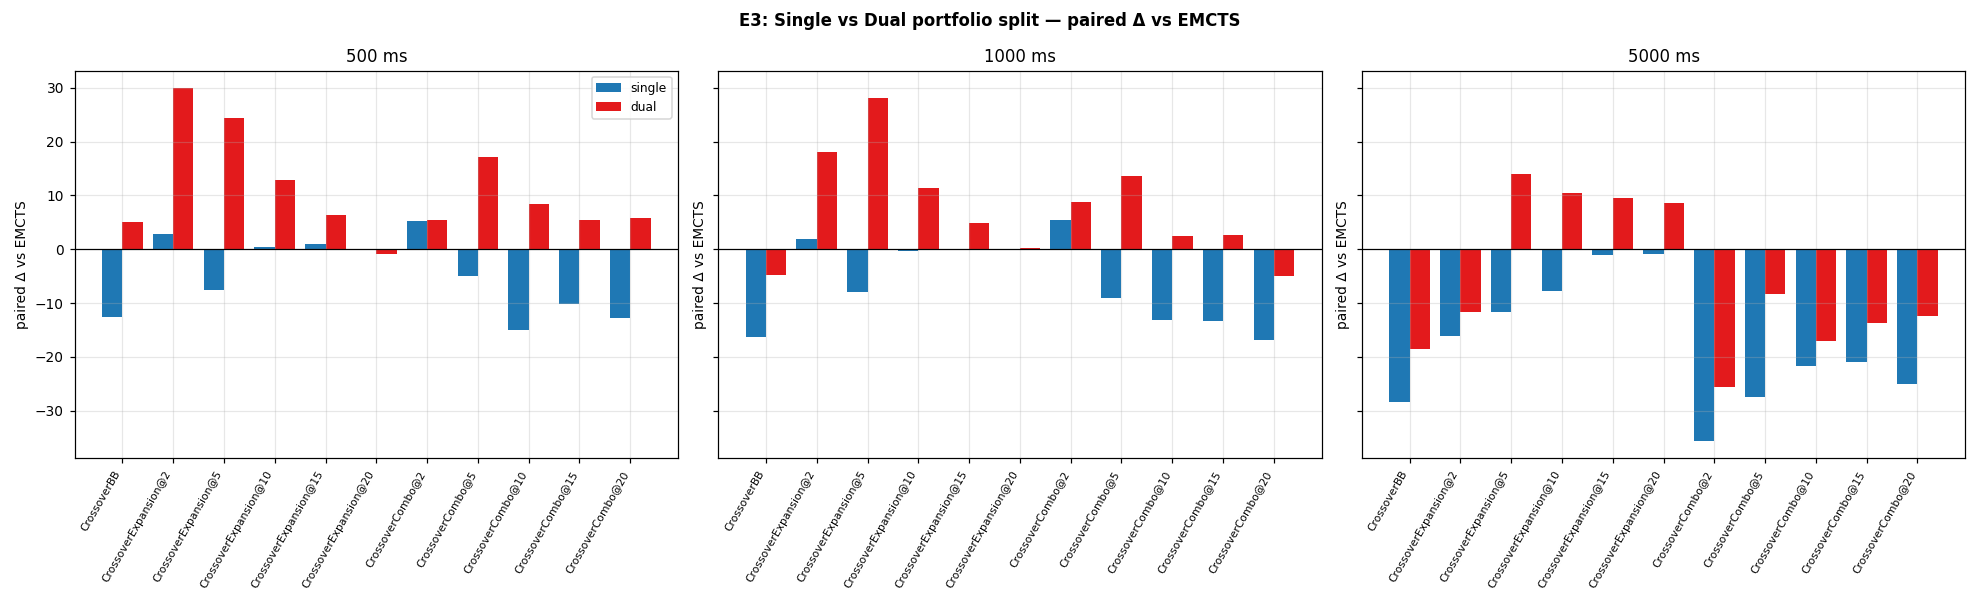
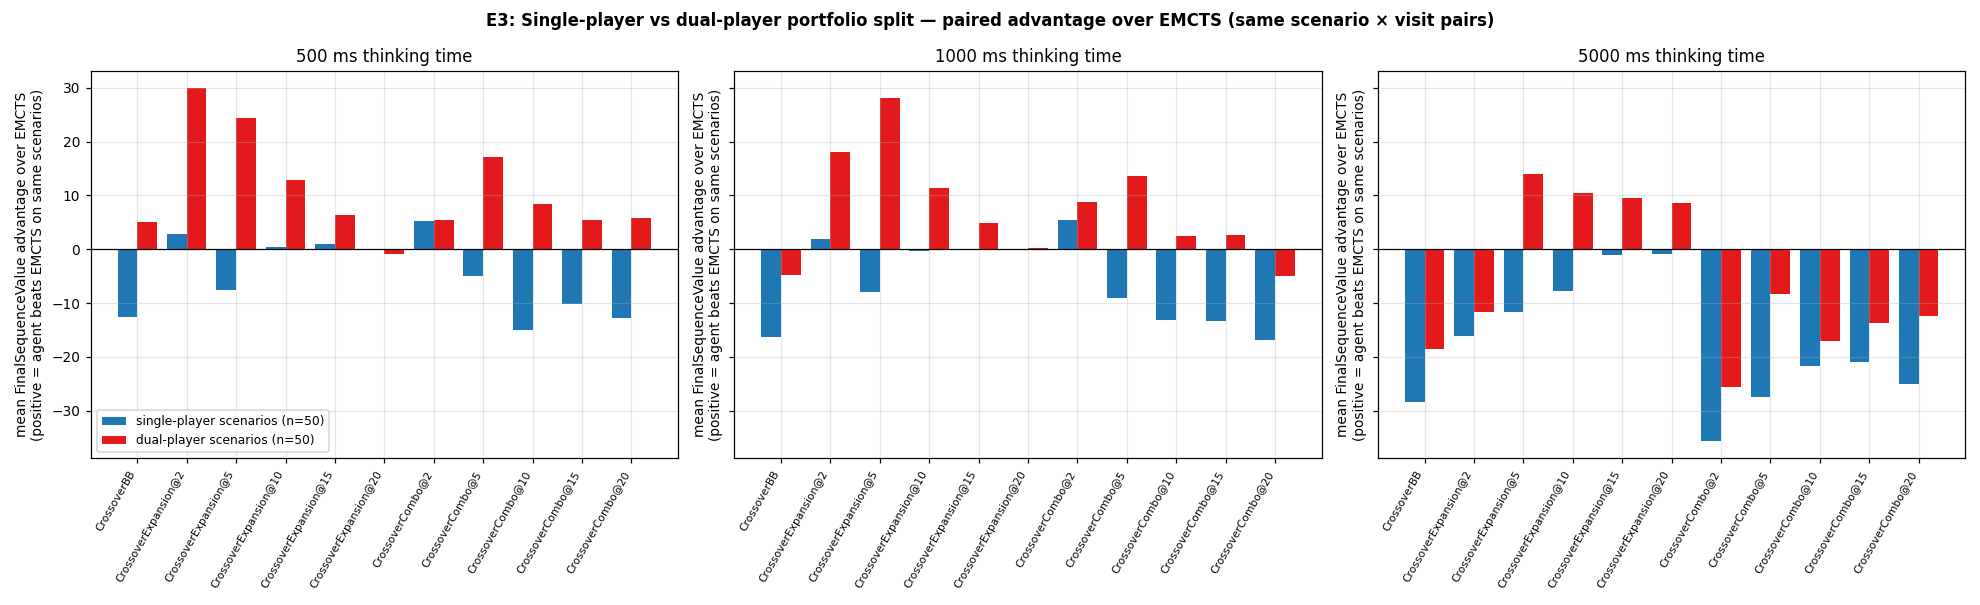
v4 analysis: fix E1 label/bar mismatch, clarify E3 label, add E5 cost decomp
- E1 (paired Δ with CI): drop sharey=True so per-panel sort order matches
  per-panel y-tick labels (was: avg-panel labels leaked into all four
  panels via shared axis).
- E3 (single vs dual): replace "paired Δ vs EMCTS" with a self-explanatory
  axis label, expand legend, and bold the title.
- E5 (new): per-iteration cost decomposition. Audits the
  NodesEvaluated/Turn chart from analyze_v4.py — the inter-agent
  inconsistency is real but is NOT extra search work, it is cheaper
  iterations (BB tournament evals are shallow; crossover sequences need
  less repair than mutate). RESULTS_V4.md gets a new section explaining
  this so the reader does not misread the efficiency chart.

diff --git a/Tribes-master/analysis/analyze_v4_full.py b/Tribes-master/analysis/analyze_v4_full.py
@@ -386,7 +386,10 @@ def extra_paired_delta_with_ci(turn_df):
                 .drop_duplicates(['ThinkingMs','ScenarioId','VisitId'])
     j = turn_df.merge(emcts, on=['ThinkingMs','ScenarioId','VisitId'], how='left', validate='m:1')
     j['delta'] = j.FinalSequenceValue - j.emcts_final
-    fig, axes2 = plt.subplots(2, 2, figsize=(13, 9), squeeze=False, sharey=True)
+    # Independent y-axes: each panel sorts bars by its own mean, so each panel needs its own labels
+    # in the matching order. With sharey=True matplotlib lets the last-set y-tick labels win for ALL
+    # panels, which was the cause of the label/bar mismatch in the previous version.
+    fig, axes2 = plt.subplots(2, 2, figsize=(13, 9), squeeze=False, sharey=False)
     axes = axes2.flatten()
     # per ms + avg
     keys = [*MS_LEVELS, 'avg']
@@ -484,15 +487,60 @@ def extra_single_vs_dual(turn_df, portfolio):
         x = np.arange(len(configs_present))
         s = sub[sub.Source=='single'].set_index('Config').reindex(configs_present)['deltaVsEMCTS']
         d = sub[sub.Source=='dual'  ].set_index('Config').reindex(configs_present)['deltaVsEMCTS']
-        ax.bar(x - 0.2, s.values, 0.4, color='#1f78b4', label='single')
-        ax.bar(x + 0.2, d.values, 0.4, color='#e31a1c', label='dual')
+        ax.bar(x - 0.2, s.values, 0.4, color='#1f78b4', label='single-player scenarios (n=50)')
+        ax.bar(x + 0.2, d.values, 0.4, color='#e31a1c', label='dual-player scenarios (n=50)')
         ax.axhline(0, color='black', lw=0.8)
         ax.set_xticks(x); ax.set_xticklabels(configs_present, rotation=60, ha='right', fontsize=7)
-        ax.set_title(f'{ms} ms'); ax.set_ylabel('paired Δ vs EMCTS')
-    axes[0].legend(fontsize=8)
-    fig.suptitle('E3: Single vs Dual portfolio split — paired Δ vs EMCTS',
+        ax.set_title(f'{ms} ms thinking time')
+        ax.set_ylabel('mean FinalSequenceValue advantage over EMCTS\n(positive = agent beats EMCTS on same scenarios)')
+    axes[0].legend(fontsize=8, loc='lower left')
+    fig.suptitle('E3: Single-player vs dual-player portfolio split — paired advantage over EMCTS '
+                 '(same scenario × visit pairs)',
                  fontweight='bold')
     fig.tight_layout(); fig.savefig(FIGS / 'E3_single_vs_dual.png'); plt.close(fig)
+
+
+def extra_search_breadth_vs_cost(turn_df):
+    """E5. Iteration breadth vs per-iteration cost — what the NodesEvaluated/Turn chart in analyze_v4
+    actually means. Each MCTS iteration calls eval() exactly once (nodesEvaluated++), but the FmCalls
+    each iteration consumes varies sharply by agent:
+        - mutate-then-repair (EMCTS): full sequence repair after a random action insertion
+        - crossover-expansion: parents are elite/valid, so repair touches fewer actions
+        - BB tournaments: 7 shallow eval()s per burn, each fed an inherited sequence (cheap)
+    Net effect: agents with cheaper iterations fit MORE iterations into the same wall-clock budget,
+    so their NodesEvaluated/Turn is higher even though no extra work is done per iteration. This view
+    decomposes the chart into (i) iteration breadth, (ii) FM-call cost per iteration."""
+    rows = []
+    for cfg in [c for c in ORDER if c in turn_df.Config.unique()]:
+        for ms in MS_LEVELS:
+            sub = turn_df[(turn_df.Config == cfg) & (turn_df.ThinkingMs == ms)]
+            if sub.empty: continue
+            n_iter = sub.NodesEvaluated.mean()
+            fm = sub.FmCalls.mean()
+            rows.append(dict(Config=cfg, ms=ms,
+                             evals_per_turn=n_iter,
+                             fmCalls_per_turn=fm,
+                             fmCalls_per_eval=fm/n_iter if n_iter else np.nan))
+    t = pd.DataFrame(rows).round(2)
+    t.to_csv(TABLES / 'E5_search_breadth_vs_cost.csv', index=False)
+    fig, axes = plt.subplots(1, 3, figsize=(15, 4.5), squeeze=False)
+    axes = axes[0]
+    metrics = [('evals_per_turn', 'eval() calls per turn\n(= MCTS iterations)'),
+               ('fmCalls_per_turn', 'forward-model calls per turn\n(actual compute budget used)'),
+               ('fmCalls_per_eval', 'FM calls per eval\n(cost per iteration — lower = cheaper iter)')]
+    cfgs_present = [c for c in ORDER if c in t.Config.unique()]
+    x = np.arange(len(cfgs_present))
+    for ax, (col, ylab) in zip(axes, metrics):
+        for i, ms in enumerate(MS_LEVELS):
+            sub = t[t.ms == ms].set_index('Config').reindex(cfgs_present)
+            ax.plot(x, sub[col].values, marker='o', label=f'{ms} ms', lw=1.5)
+        ax.set_xticks(x); ax.set_xticklabels(cfgs_present, rotation=60, ha='right', fontsize=7)
+        ax.set_ylabel(ylab); ax.legend(fontsize=8)
+    fig.suptitle('E5: Per-iteration cost decomposition (clarifies the NodesEvaluated/Turn chart). '
+                 'Cheaper iterations → more iterations in the same wall-clock budget.',
+                 fontweight='bold', fontsize=10)
+    fig.tight_layout(); fig.savefig(FIGS / 'E5_search_breadth_vs_cost.png',
+                                     bbox_inches='tight'); plt.close(fig)
 
 
 def extra_convergence_speed(df_burn):
@@ -576,6 +624,7 @@ def main():
     print('E2: best ratio per budget');          extra_best_ratio_per_budget(turn_df)
     print('E3: single vs dual portfolio split'); extra_single_vs_dual(turn_df, portfolio)
     print('E4: convergence speed');              extra_convergence_speed(df_burn)
+    print('E5: search breadth vs per-iter cost'); extra_search_breadth_vs_cost(turn_df)
 
     print(f'\nDone. tables -> {TABLES}/  figures -> {FIGS}/')
 

diff --git a/Tribes-master/analysis/RESULTS_V4.md b/Tribes-master/analysis/RESULTS_V4.md
@@ -175,6 +175,43 @@ greener = converges earlier.
   by burn 13; Combo@5 at the same ms needs burn 18). So Expansion is not just better at the END — it
   finds the best-known sequence FASTER too.
 
+### E5 — interpreting the NodesEvaluated/Turn chart (search breadth vs per-iteration cost)
+
+The `fig7_efficiency.png` chart from `analyze_v4.py` shows `NodesEvaluated/Turn` varying sharply between
+agents (e.g. at 500 ms: EMCTS ≈ 22, CrossoverBB ≈ 42, Combo@2 ≈ 56). At first read this looks
+suspicious — why does BB report nearly 2× the nodes evaluated of EMCTS for the same wall-clock budget?
+
+**The metric is correct.** `NodesEvaluated` is `eval()` calls per turn, and `eval()` fires exactly once
+per MCTS main-loop iteration plus once per crossover-BB tournament candidate. The audit (E5,
+`E5_search_breadth_vs_cost.png` and `E5_search_breadth_vs_cost.csv`) decomposes the metric into
+**iteration breadth** and **per-iteration FM-call cost** and shows what is actually happening:
+
+| 500 ms          | evals/turn | FM-calls/turn | FM-calls / eval (cost per iteration) |
+|-----------------|-----------:|--------------:|-------------------------------------:|
+| EMCTS           | 22.2 | 3,265 | **147.2** |
+| CrossoverBB     | 41.6 | 4,882 | 117.4 |
+| Expansion @ 2   | 36.4 | 4,684 | 128.7 |
+| Expansion @ 20  | 22.2 | 3,266 | 147.0 |
+| Combo @ 2       | 55.9 | 7,822 | 139.9 |
+
+- The **right column** (FM-calls per eval) is the *cost of one MCTS iteration*. EMCTS's `mutate()`
+  inserts a random action and runs full sequence repair through the forward model — expensive
+  (147 FM calls per iteration).
+- CrossoverBB tournament candidates are **shallow** (7 children fed inherited sequences, almost no
+  repair) — they cost only ~17 FM calls per eval. The arithmetic average over (main-loop iterations
+  at 147) + (tournament evals at ~17) gives BB's 117 — *cheaper iterations on average*.
+- Expansion's crossover sequences come from elite parents and are largely valid by construction, so
+  the repair step needs fewer FM calls (~129 per iteration at ratio 2 vs 147 for pure mutate).
+- **Conclusion:** within the same wall-clock budget, agents with cheaper iterations fit more
+  iterations in — so their `NodesEvaluated/Turn` rises. The chart in `analyze_v4.py` is honest;
+  it is *not* "more search work done", it is "more iterations executed because each iteration is
+  cheaper."
+
+This is a real thesis-grade insight, not a measurement artifact: **part of CrossoverExpansion's
+benefit at low budgets comes from cheaper per-iteration repair, which lets it cover ~65% more
+candidate sequences in the same 500 ms (36 evals vs 22).** That's a substantial fraction of the
+absolute lift over EMCTS and is worth calling out in the writeup.
+
 ## Tying back to v3
 
 v3's headline was "CrossoverExpansion@5 is the best modification, CrossoverBB is no use." v4 confirms
